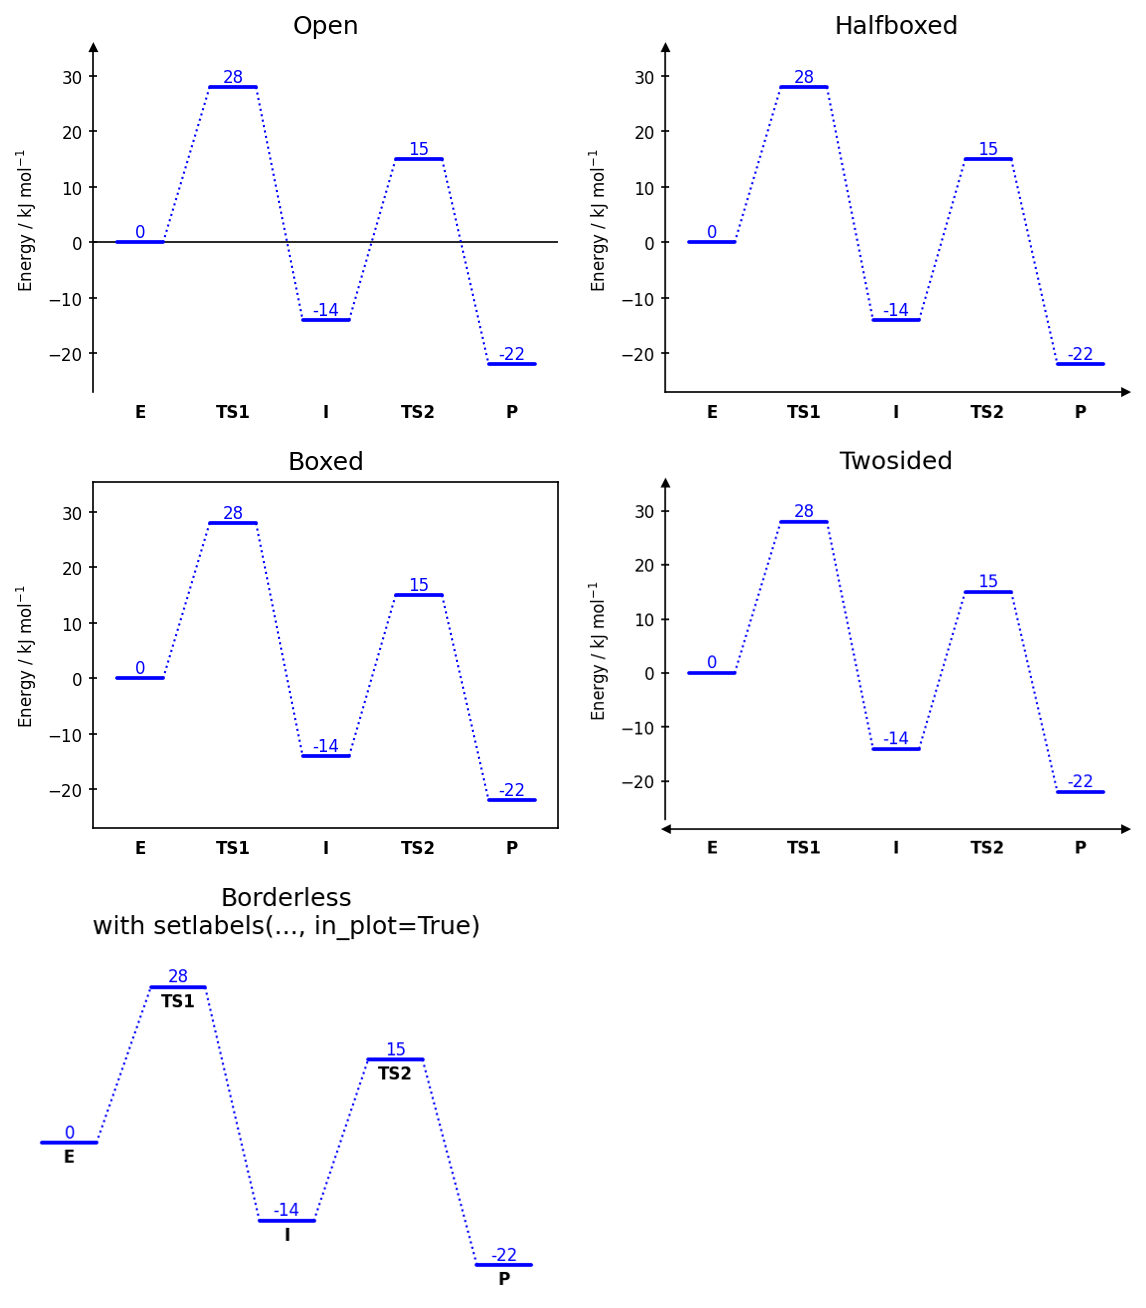
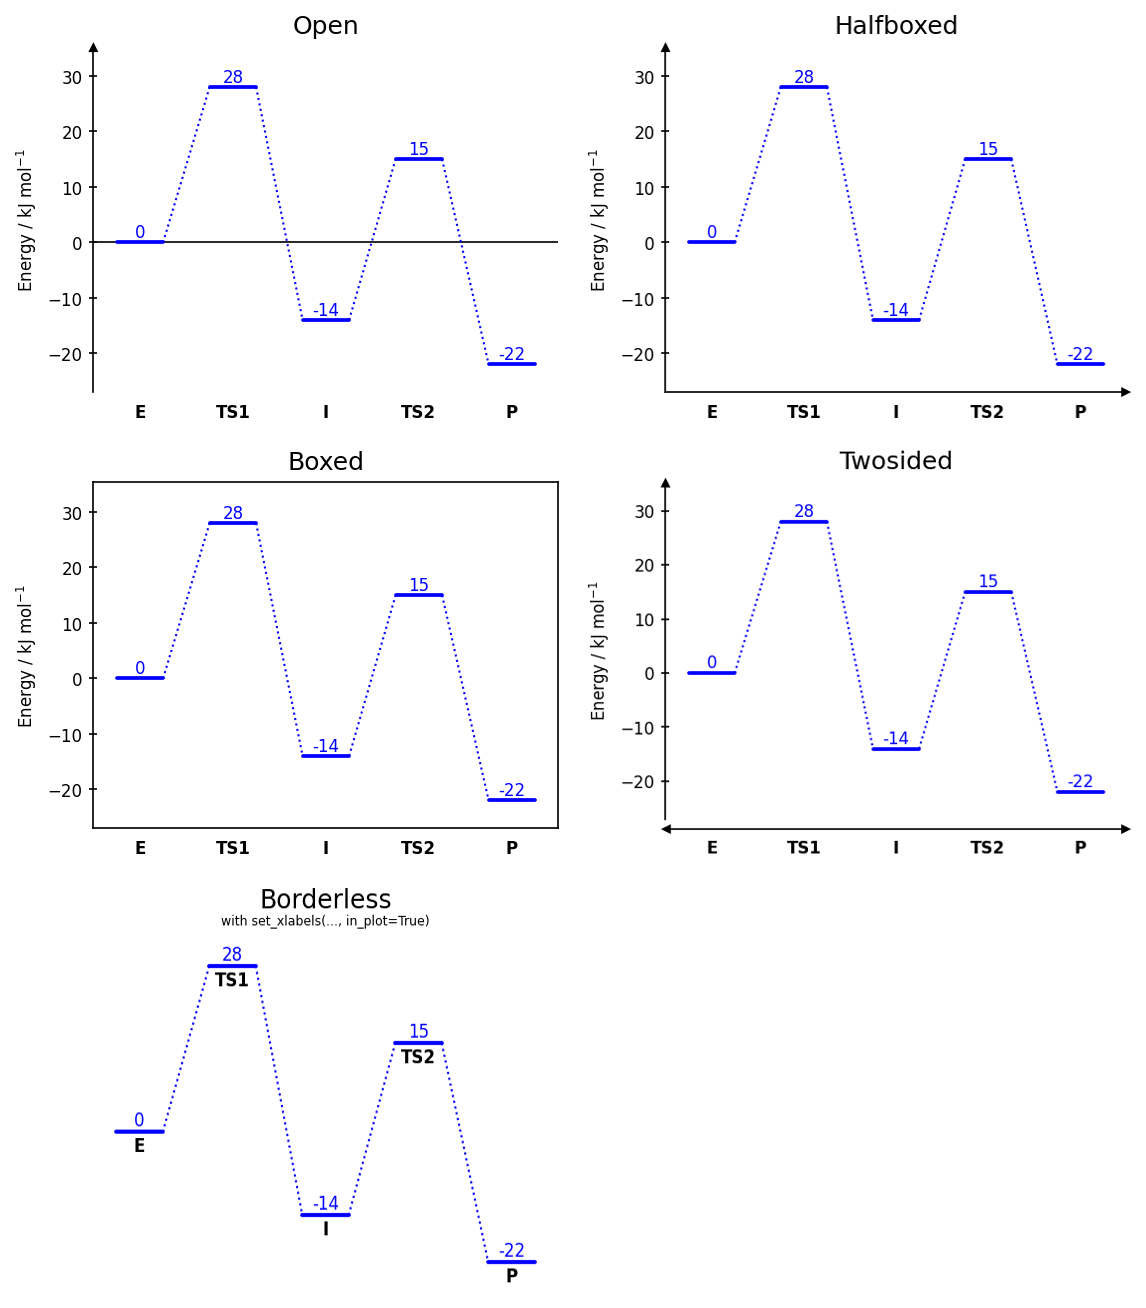
Expand README

diff --git a/README.md b/README.md
@@ -2,7 +2,7 @@
 
 [![PyPI version](https://img.shields.io/pypi/v/chemdiagrams.svg)](https://pypi.org/project/chemdiagrams/)
 [![Python versions](https://img.shields.io/pypi/pyversions/chemdiagrams.svg)](https://pypi.org/project/chemdiagrams/)
-[![License: MIT](https://img.shields.io/badge/License-MIT-yellow.svg)](LICENSE)
+[![License: MIT](https://img.shields.io/badge/License-MIT-yellow.svg)](https://github.com/Tonner-Zech-Group/chem-diagrams/blob/main/LICENSE)
 [![DOI](https://zenodo.org/badge/DOI/10.5281/zenodo.18957965.svg)](https://doi.org/10.5281/zenodo.18957965)
 
 A Python package for creating publication-quality reaction energy diagrams with Matplotlib.
@@ -67,13 +67,12 @@ pip install chemdiagrams
 
 - Multiple reaction paths on a single diagram
 - Five connector styles: dotted, solid, broken dotted, broken solid, or none
-- Four diagram styles: `open`, `halfboxed`, `boxed`, `twosided`
+- Five diagram styles: `open`, `halfboxed`, `boxed`, `twosided`, `borderless`
 - Automatic, stacked, naïve, and averaged energy label placement
 - Energy difference bars with optional whiskers
 - Axis break markers for both x and y axes
 - Image placement along the diagram, with automatic collision avoidance
 - Full access to the underlying Matplotlib objects for fine-grained customisation
-- Method chaining for compact, readable diagram construction
 
 ## Methods
 
@@ -83,7 +82,7 @@ pip install chemdiagrams
 | `draw_difference_bar()` | Draw a vertical energy difference arrow between two levels |
 | `merge_plateaus()` | Visually merge two coincident energy levels at a shared x-position |
 | `set_xlabels()` | Set text labels for the reaction states along the x-axis |
-| `set_diagram_style()` | Change the overall visual style (`open`, `boxed`, `halfboxed`, `twosided`) |
+| `set_diagram_style()` | Change the overall visual style (`open`, `boxed`, `halfboxed`, `twosided`, `borderless`) |
 | `add_numbers_naive()` | Annotate each energy level directly above its bar |
 | `add_numbers_stacked()` | Stack labels above the highest state to avoid overlap |
 | `add_numbers_auto()` | Automatically distribute labels to minimise clutter (recommended) |
@@ -97,6 +96,22 @@ pip install chemdiagrams
 
 ## Usage
 
+### General figure settings
+
+General settings like figure size, margins and font size are usually handled automatically by `EnergyDiagram`, but can be customised at construction.
+
+```python
+dia = EnergyDiagram(
+    extra_x_margin=(0, 0.5),   # additional margin in x (data units)
+    extra_y_margin=(0, 0.2),   # additional margin in y (relative units)
+    figsize=(6, 4),            # explicit figure size in inches
+    width_limit=7,             # maximum width in inches if figure is scaled automatically (figsize is not set, default: None)
+    fontsize=10,               # default font size for all text elements (can be overridden individually)
+    style="halfboxed",         # diagram style (see later sections for details)
+    dpi=150,                   # resolution in dots per inch for raster formats (ignored for vector formats like PDF, svg and eps)
+)
+```
+
 ### Drawing paths
 
 Each call to `draw_path` adds one reaction pathway. Paths can span different x-ranges, allowing branching or incomplete pathways.
@@ -109,7 +124,7 @@ dia.draw_path(
     y_data=[0, -13, 22, 75, 39, 20],
     color="blue",
     path_name="Pathway A",      # name appears in the legend
-    linetypes=[1, 1, 2, -1, 0], # connector style per segment
+    linetypes=[1, 1, 2, -1, 0], # connector style per segment, a single value applies to all segments
 )
 
 dia.draw_path(
@@ -177,15 +192,35 @@ dia.add_numbers_auto()                   # distributes labels to avoid overlaps 
 dia.add_numbers_stacked()                # stacks all labels above the highest state
 dia.add_numbers_naive()                  # places each label directly above its bar
 dia.add_numbers_average()                # displays the mean energy across all paths
+```
 
-# Restrict to a range of x-values
+To restrict the numbering to a specific range of x-values, pass `x_min_max=(x_min, x_max)` to the numbering method.
+
+```python
 dia.add_numbers_auto(x_min_max=(1, 4))
+```
 
-# Exclude a path from labelling
+To exclude numbers for a specific path, pass `show_numbers=False` to `draw_path` for that path.
+
+```python
 dia.draw_path(..., show_numbers=False)
 ```
 
+It is possible to adjust the fontsize of the numbers via the `fontsize` parameter of the numbering methods, or by direct Matplotlib access after drawing (see below).
+
+```python
+dia.add_numbers_auto(..., fontsize=6)
+```
+
+For `add_numbers_average`, the color of the labels can be set with the `color` parameter.
+
+```python
+dia.add_numbers_average(color="red")
+```
+
 ### Energy difference bars
+
+`draw_difference_bar` draws a vertical bar between two energy levels at a specified x-position, with optional horizontal whiskers to indicate the reference points for the difference.
 
 ```python
 dia = EnergyDiagram(style="halfboxed")
@@ -196,11 +231,16 @@ dia.draw_difference_bar(
     y_start_end=(-25, 0),
     description=r"$\Delta E_\mathrm{R}$: ",
     color="black",
-    x_whiskers=(5, 0),       # draw horizontal whiskers from x=5 and x=0
-    whiskercolor="blue",
-    left_side=True           # text on the left
+    arrowstyle="|-|",               # arrow style (default: "|-|")
+    x_whiskers=(5, 0),              # x-positions for whisker endpoints; None to omit
+    whiskercolor="blue",            # whisker color (defaults to bar color if omitted)
+    left_side=True,                 # place bar and text on the left of x
+    add_difference=True,            # automatically append the difference value rounded to an integer to description
+    fontsize=8,                     # font size for the label (uses diagram default if None)
+    diff=None,                      # horizontal offset of text (auto-computed if None)
 )
 dia.set_xlabels(["A", "B", "C", "D", "E", "F"])
+dia.ax.set_ylabel("Energy / kJ mol$^{-1}$", fontsize=8)
 dia.add_numbers_auto()
 dia.show()
 ```
@@ -209,57 +249,58 @@ dia.show()
 
 ### Axis breaks
 
+Axis breaks can be added to either axis to indicate a discontinuity in the scale. The break is drawn at the specified x or y position in data coordinates, with a gap in the axis line and diagonal tick marks.
+
 ```python
 dia = EnergyDiagram(style="twosided")
-dia.draw_path(...)
+dia.draw_path(x_data=[0,1,2,3,4,5], y_data=[0,-13,22,75,39,-25], color="blue")
 
 dia.add_yaxis_break(y=5)
-dia.add_xaxis_break(x=2, gap_scale=2, stopper_scale=1.5, angle=60)
-
+dia.add_xaxis_break(
+    x=2,                        # x-position of the break in data coordinates
+    gap_scale=2,                # scaling factor for the gap in the axis line (default: 1)
+    stopper_scale=1.5,          # scaling factor for the size of the stopper tick marks (default: 1)
+    angle=60,                   # angle of the stopper tick marks in degrees (default: 60)
+)
+dia.set_xlabels(["A", "B", "C", "D", "E", "F"])
+dia.add_numbers_auto()
+dia.ax.set_ylabel("Energy / kJ mol$^{-1}$", fontsize=8)
 dia.show()
 ```
 
-Note: x-axis breaks are not compatible with the `"open"` style.
+![Axis breaks](https://raw.githubusercontent.com/Tonner-Zech-Group/chem-diagrams/main/docs/img/example_breaks.png)
+
+Note: x-axis breaks are not compatible with the `"open"` and `"borderless"` styles. y-axis breaks are not compatible with the `"borderless"` style.
 
 ### Merging degenerate plateaus
 
 When two paths share the same energy level at the same x-position, `merge_plateaus`
 replaces both full-width bars with two shorter half-bars separated by a gap, with
 diagonal tick marks to indicate degeneracy.
-```python
-dia = EnergyDiagram()
-dia.draw_path(x_data=[0, 1, 2], y_data=[0, 50, 10], color="blue", path_name="Path A")
-dia.draw_path(x_data=[0, 1, 2], y_data=[0, 50, -5], color="red",  path_name="Path B")
 
-# Both paths share y=50 at x=1
+```python
+dia = EnergyDiagram(style="twosided")
+dia.draw_path(x_data=[0, 1, 2], y_data=[10, 55, 0], color="blue", path_name="Path A")
+dia.draw_path(x_data=[2, 3, 4], y_data=[0, 50, -5], color="red",  path_name="Path B")
+
+# Both paths share y=0 at x=2
 dia.merge_plateaus(
-    x=1,
-    path_name_left="Path A",
-    path_name_right="Path B",
-    gap_scale=1.0,       # width of the gap between the two half-bars
-    stopper_scale=1.0,   # size of the diagonal tick marks
-    angle=30,            # angle of the tick marks in degrees
+    x=2,                        # x-position of the shared plateau in data coordinates
+    path_name_left="Path A",    # name of the left path to merge (must match the path_name used in draw_path)
+    path_name_right="Path B",   # name of the right path to merge (must match the path_name used in draw_path)
+    gap_scale=1.0,              # width of the gap between the two half-bars
+    stopper_scale=1.0,          # size of the diagonal tick marks
+    angle=30,                   # angle of the tick marks in degrees
 )
 
 dia.add_numbers_auto()
+dia.set_xlabels(["P1", "TS1", "E", "TS2", "P2"])
+dia.ax.set_ylabel("Energy / kJ mol$^{-1}$", fontsize=8)
 dia.show()
 ```
+![Merge plateaus](https://raw.githubusercontent.com/Tonner-Zech-Group/chem-diagrams/main/docs/img/example_merge_plateaus.png)
 
 Both paths must already be drawn and must have exactly the same y-value at `x`.
-
-### Figure settings
-
-```python
-dia = EnergyDiagram(
-    extra_x_margin=(0, 0.5),   # additional margin in x (axis units)
-    extra_y_margin=(0, 0.2),   # additional margin in y (relative units)
-    figsize=(6, 4),            # explicit figure size in inches
-    width_limit=7,             # maximum auto-scaled width in inches
-    fontsize=10,
-    style="halfboxed",
-    dpi=150,
-)
-```
 
 ### Placing images
 
@@ -313,42 +354,76 @@ dia.fig.savefig("diagram.pdf", bbox_inches="tight")
 
 ### Accessing Matplotlib objects
 
-All artists are accessible after drawing for direct Matplotlib customisation.
+All Matplotlib artists are accessible after drawing for direct customisation. Most importantly, the figure and axes objects are available as `dia.fig` and `dia.ax` for direct Matplotlib calls. This allows to set axis labels, titles, limits, or any other Matplotlib property before saving or showing the figure.
 
 ```python
 dia.draw_path(..., path_name="My Path")
 dia.add_numbers_auto()
+figure = dia.fig  # Matplotlib Figure object
+axes = dia.ax     # Matplotlib Axes object
+dia.ax.set_ylabel("Energy / kJ mol$^{-1}$", fontsize=10)
+dia.fig.savefig("diagram.png", dpi=300, bbox_inches="tight")
+```
 
+All objects of a path (plateaus and connectors) are stored in dia.lines and can be accessed by the path name and x-position.
+
+```python
 # Plateau and connector lines
-# Keys are x-positions formatted to one decimal place
-plateau   = dia.lines["My Path"].plateaus["2.0"]     # x=2
-connector = dia.lines["My Path"].connections["1.5"]  # midpoint between x=1 and x=2
+# Keys are x-position strings formatted to one decimal place
+plateau   = dia.lines["My Path"].plateaus["2.0"]     # Plateau of "My Path" at x=2
+connector = dia.lines["My Path"].connections["1.5"]  # Connector of "My Path" between x=1 and x=2 (x=1.5)
 plateau.set_color("green")
+connector.set_linestyle("--")
+```
 
+All energy labels are stored in dia.numbers and can be accessed by path name and x-position.
+
+```python
 # Energy labels
-label = dia.numbers["My Path"]["2.0"]                # x=2
+label = dia.numbers["My Path"]["2.0"]                # Number of "My Path" at x=2
 label.set_color("red")
 label.set_fontsize(12)
+```
 
+Components of difference bars are stored in dia.bars and can be accessed by the order of bar placement (e.g., `dia.bars[0]` for the first one, `dia.bars[1]` for the second one...). A difference bar consists of the vertical bar (`bar`), an optional text label (`text`), and optional horizontal whiskers (`whisker_1`, `whisker_2`).
+
+```python
 # Difference bar components
-dia.bars[0].text.set_color("red")
-dia.bars[0].bar.arrow_patch.set_color("green")
-dia.bars[0].whisker_2.set_linestyle("--")
+first_bar = dia.bars[0]                                 # First difference bar added to the diagram
+first_bar.text.set_color("red")
+first_bar.bar.arrow_patch.set_color("green")
+first_bar.whisker_2.set_linestyle("--")
+```
 
-# Style objects (axes, arrows, x-labels)
+Style objects for axes, arrows, and x-labels are stored in `dia.ax_objects` and can be accessed by their type and x-position (for x-labels). x-labels (`x_labels`) are only stored if they were created with `set_xlabels(..., in_plot=True)`. 
+
+```python
+# Set color for x label at x=2.0 
 dia.ax_objects.x_labels["2.0"].set_color("purple")
+```
 
+Arrows (`arrows`) are stored by their name, which is `"x_arrow"` (`"x_arrow_left"` and `"x_arrow_right"` in case of `style="twosided"`) or `"y_arrow"` for the axis arrows.
+
+```python
 # Axis arrows (twosided/open/halfopen styles)
 dia.ax_objects.arrows["x_arrow"].set_color("gray")
+```
 
-# Axis break artists
+Axis break components are stored in `xaxis_breaks` and `yaxis_breaks` by their x or y position as a string formatted to one decimal place. Each break consists of two stopper lines (`stopper_1`, `stopper_2`) and a whitespace rectangle (`whitespace`) that covers the gap in the axis line. In case of `"style=boxed"` there are two break objects accessible via a dictionary keyed by "left" and "right" or "bottom" and "top".
+
+```python
+# Axis break artists if style is not "boxed"
 dia.ax_objects.xaxis_breaks["2.0"].stopper_1.set_color("red")
 dia.ax_objects.yaxis_breaks["5.0"].whitespace.set_facecolor("lightyellow")
 
-# Direct Matplotlib axes access
-dia.ax.set_ylabel("Energy / kJ mol$^{-1}$", fontsize=10)
-dia.fig.savefig("diagram.png", dpi=300, bbox_inches="tight")
+# Axis break artists if style is "boxed"
+dia.ax_objects.xaxis_breaks["2.0"]["top"].stopper_1.set_color("red")
+dia.ax_objects.yaxis_breaks["5.0"]["left"].stopper_1.set_color("blue")
+```
 
+Images are stored in `dia.images` by their name, which is either the `img_name` passed to `add_image_in_plot` or the `img_series_name` passed to `add_image_series_in_plot`. The former is stored as an `ImageObject`, which has an `image` attribute for the Matplotlib AxesImage and a `borders` dictionary for the frame lines keyed by "top", "bottom", "left", and "right". The latter is stored as a dictionary keyed by x-position as a string formatted to one decimal place, with each entry being an `ImageObject`.
+
+```python
 # Access a single image artist added with add_image_in_plot
 img_object = dia.images["my_image"]                  # ImageObject
 img_object.image.set_alpha(0.8)                      # AxesImage — any matplotlib imshow property

diff --git a/CHANGELOG.md b/CHANGELOG.md
@@ -6,6 +6,12 @@ The format follows [Keep a Changelog](https://keepachangelog.com/en/1.1.0/).
 This project does not yet follow semantic versioning; a versioning policy
 will be adopted before the 1.0.0 release.
 
+## [0.1.2] — 2026-03-28
+
+### Changed
+
+- Expanded README with more examples and usage instructions.
+
 ## [0.1.1] — 2026-03-15
 
 ### Changed
